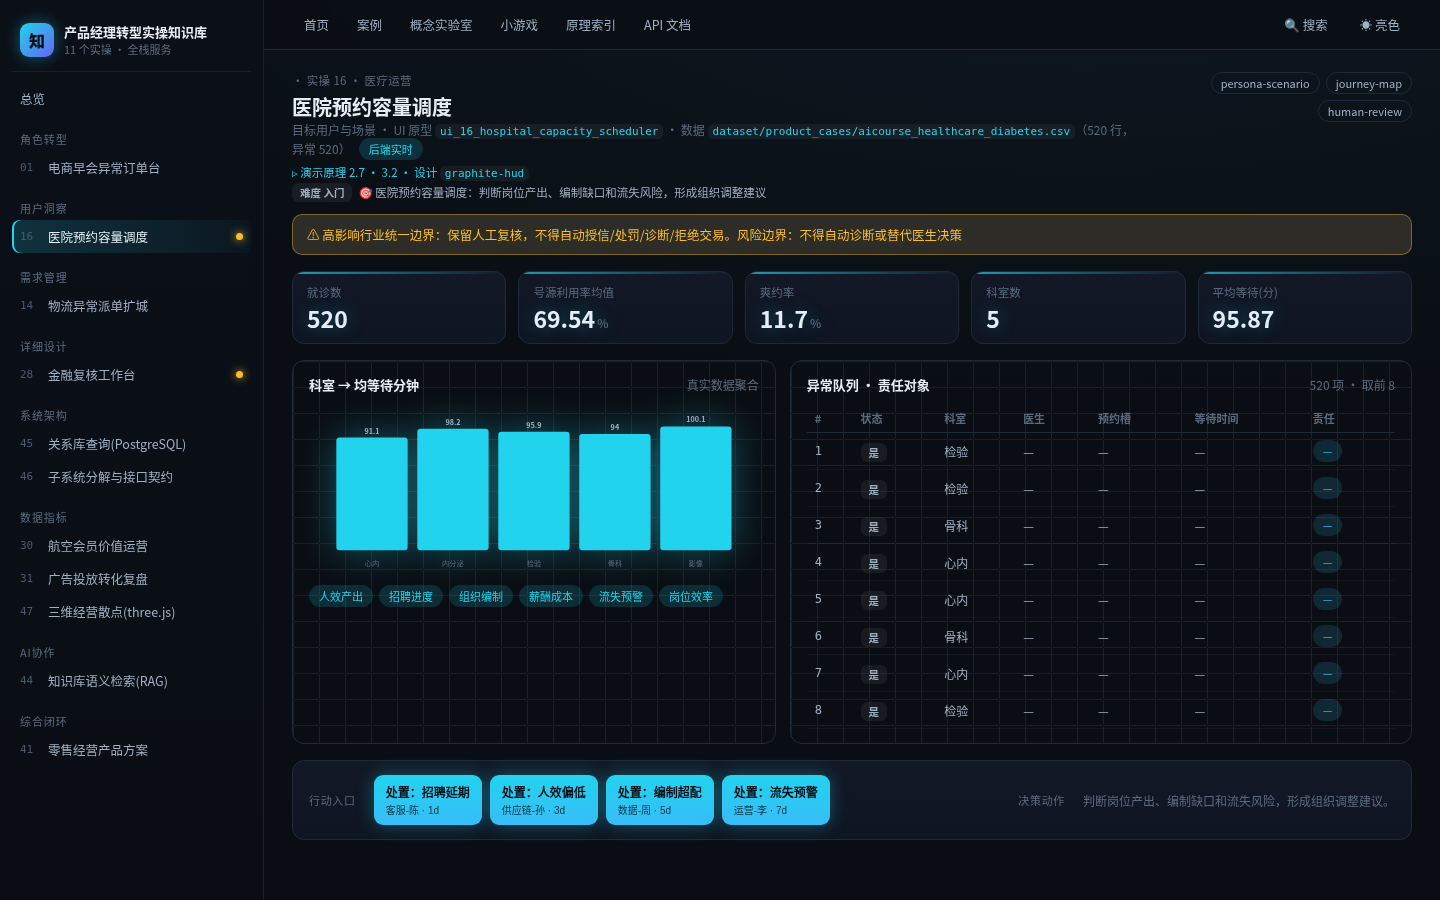
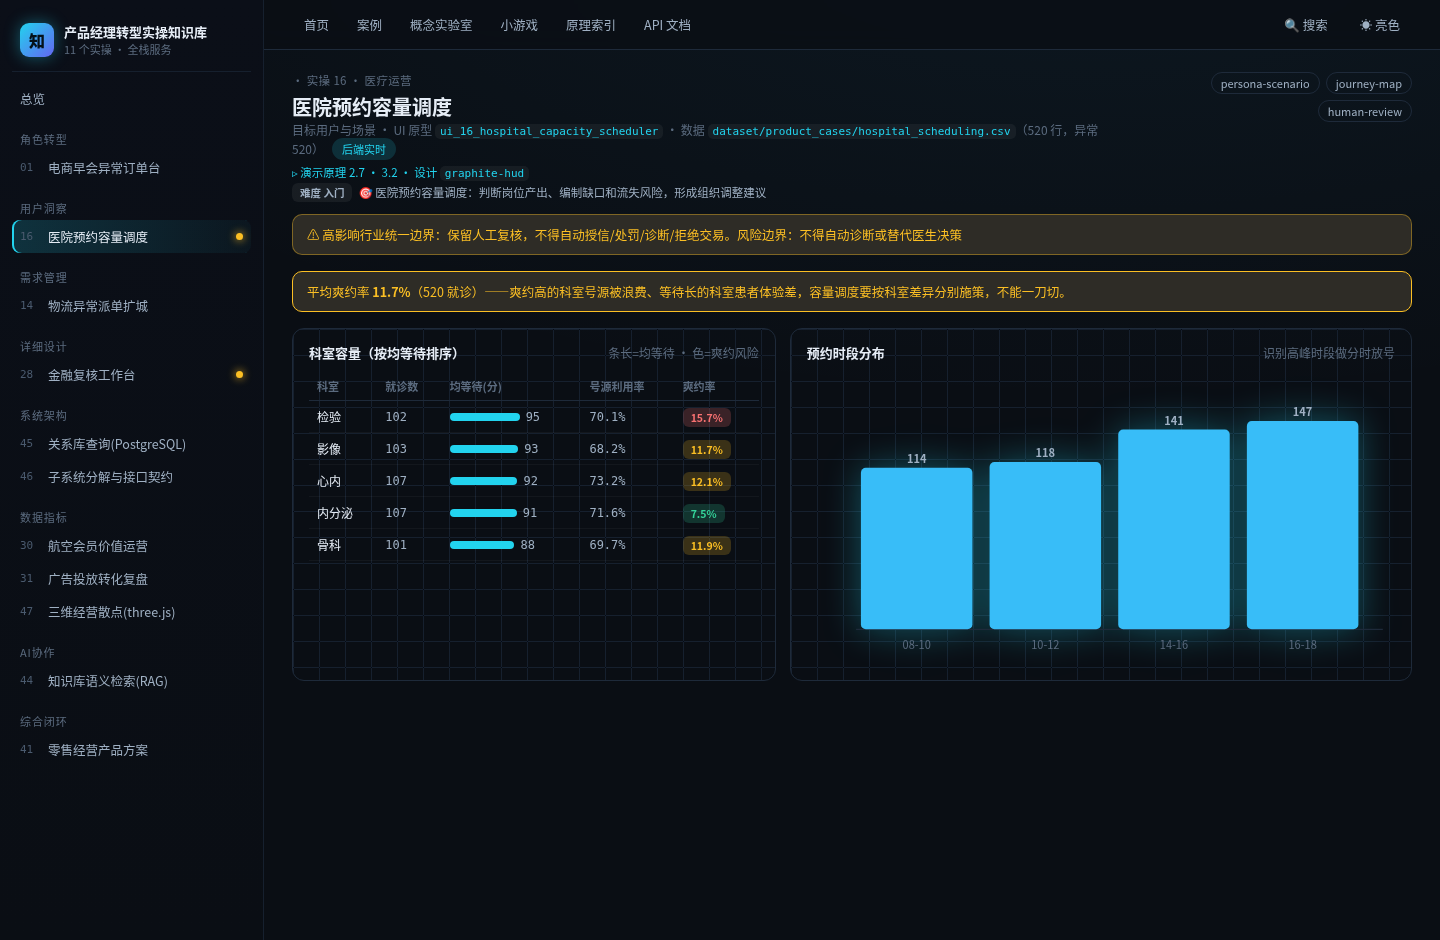
v7 P4：案例16 医院容量专属 demo（第二个深度标杆）
- 后端 /api/hospital 按科室真算 就诊数/均等待/号源利用率/爽约率 + 时段分布。
- 前端 HospitalScreen：科室容量表（按均等待排序、爽约风险色标）+ 预约时段分布柱，取代通用模板；banner 点明平均爽约 11.7%、按科室差异施策。
- case16 screen=capacity；后端 node:test 加医院断言；verify 加专属 demo 守卫。三重检查全绿。
- 深做流水线复用成功：RFM(30)→医院容量(16) 两个专属 demo，模式可复制到 14/28/31。

diff --git a/code/web/src/screens.tsx b/code/web/src/screens.tsx
@@ -1,5 +1,5 @@
 import { lazy, Suspense, useEffect, useMemo, useState } from 'react';
-import { fetchSearch, fetchDbQuery, fetchPoints3d, fetchHealth, fetchRfm } from './lib/api';
+import { fetchSearch, fetchDbQuery, fetchPoints3d, fetchHealth, fetchRfm, fetchHospital } from './lib/api';
 // three.js 独立 chunk，仅在渲染 3D 案例时动态加载（首屏不含 three）
 const Chart3D = lazy(() => import('./chart3d'));
 
@@ -159,8 +159,51 @@ function RfmScreen() {
   );
 }
 
+// —— 医院容量调度专属 demo（案例16）：按科室号源利用率/爽约率/均等待 + 时段分布 ——
+function HospitalScreen() {
+  const [d, setD] = useState<any>(null);
+  useEffect(() => { fetchHospital().then(setD); }, []);
+  if (!d) return <section className="card"><div className="muted">加载科室容量…</div></section>;
+  const maxWait = Math.max(...d.depts.map((x: any) => x.avgWait), 1);
+  const maxSlot = Math.max(...d.slots.map((x: any) => x.count), 1);
+  const wc = (r: number) => r >= 14 ? 'var(--bad)' : r >= 10 ? 'var(--warn)' : 'var(--ok)';
+  return (
+    <>
+      <div className="banner" style={{ color: 'var(--warn)', borderColor: 'var(--warn)' }}>平均爽约率 <b>{d.avgNoshow}%</b>（{d.total} 就诊）——爽约高的科室号源被浪费、等待长的科室患者体验差，容量调度要按科室差异分别施策，不能一刀切。</div>
+      <div className="cols">
+        <section className="card">
+          <div className="card-h"><h2>科室容量（按均等待排序）</h2><span className="muted">条长=均等待 · 色=爽约风险</span></div>
+          <div className="tbl-wrap">
+            <table className="tbl">
+              <thead><tr><th>科室</th><th>就诊数</th><th>均等待(分)</th><th>号源利用率</th><th>爽约率</th></tr></thead>
+              <tbody>
+                {d.depts.map((x: any) => (
+                  <tr key={x.name}>
+                    <td style={{ color: 'var(--ink)' }}>{x.name}</td><td className="mono">{x.count}</td>
+                    <td><div style={{ display: 'flex', alignItems: 'center', gap: 6 }}><div style={{ width: `${(x.avgWait / maxWait) * 70}px`, height: 8, background: 'var(--accent)', borderRadius: 4 }} /><span className="mono">{x.avgWait}</span></div></td>
+                    <td className="mono">{x.utilRate}%</td>
+                    <td><span className="badge" style={{ background: 'color-mix(in srgb,' + wc(x.noshowRate) + ' 20%,transparent)', color: wc(x.noshowRate) }}>{x.noshowRate}%</span></td>
+                  </tr>
+                ))}
+              </tbody>
+            </table>
+          </div>
+        </section>
+        <section className="card">
+          <div className="card-h"><h2>预约时段分布</h2><span className="muted">识别高峰时段做分时放号</span></div>
+          <svg className="chart" viewBox="0 0 480 240">
+            <line x1="40" y1="210" x2="470" y2="210" stroke="var(--border)" />
+            {d.slots.map((s: any, i: number) => { const bw = 420 / d.slots.length, h = (s.count / maxSlot) * 170; return (<g key={i}><rect x={44 + i * bw} y={210 - h} width={bw - 14} height={h} rx="4" fill="var(--accent2)" /><text x={44 + i * bw + (bw - 14) / 2} y={226} className="axis">{s.name}</text><text x={44 + i * bw + (bw - 14) / 2} y={210 - h - 4} className="val">{s.count}</text></g>); })}
+          </svg>
+        </section>
+      </div>
+    </>
+  );
+}
+
 export function SpecialScreen({ screen }: { screen: string }) {
   if (screen === 'rfm') return <RfmScreen />;
+  if (screen === 'capacity') return <HospitalScreen />;
   if (screen === 'rag') return <RagScreen />;
   if (screen === 'db') return <DbScreen />;
   if (screen === 'arch') return <ArchScreen />;

diff --git a/code/server/services/cases.ts b/code/server/services/cases.ts
@@ -62,3 +62,18 @@ export function rfm() {
   const scatter = members.filter((_, i) => i % 4 === 0).slice(0, 140).map((x) => ({ x: x.r, y: x.f, m: x.m, seg: x.seg }));
   return { total: members.length, segments, churnRisk: churn.length, churnRate: Math.round(churn.length / members.length * 1000) / 10, mHi, rHi, scatter };
 }
+
+/** 医院容量调度真实分析（案例16 专属 demo）：按科室真算就诊数/均等待/号源利用率/爽约率 + 时段分布。 */
+export function hospital() {
+  const t = parseCsv(join(ROOT, 'dataset', 'product_cases', 'hospital_scheduling.csv'));
+  const ci = (n: string) => t.head.indexOf(n);
+  const [dept, slot, wait, util, noshow] = ['科室', '预约时段', '等待分钟', '号源利用率', '是否爽约'].map(ci);
+  const rows = t.rows;
+  const dm: Record<string, { n: number; wait: number; util: number; noshow: number }> = {};
+  for (const r of rows) { const k = r[dept] || '—'; (dm[k] ||= { n: 0, wait: 0, util: 0, noshow: 0 }); const m = dm[k]; m.n++; m.wait += Number(r[wait]) || 0; m.util += Number(r[util]) || 0; if ((r[noshow] || '') === '是') m.noshow++; }
+  const depts = Object.entries(dm).map(([name, m]) => ({ name, count: m.n, avgWait: Math.round(m.wait / m.n), utilRate: Math.round(m.util / m.n * 1000) / 10, noshowRate: Math.round(m.noshow / m.n * 1000) / 10 })).sort((a, b) => b.avgWait - a.avgWait);
+  const sm: Record<string, number> = {}; for (const r of rows) sm[r[slot]] = (sm[r[slot]] || 0) + 1;
+  const slots = Object.entries(sm).sort().map(([name, count]) => ({ name, count }));
+  const avgNoshow = Math.round(rows.filter((r) => (r[noshow] || '') === '是').length / rows.length * 1000) / 10;
+  return { total: rows.length, avgNoshow, depts, slots };
+}

diff --git a/code/server/routes/api.ts b/code/server/routes/api.ts
@@ -1,5 +1,5 @@
 import { join } from 'node:path';
-import { listCases, caseData, getIndex, points3d, rfm } from '../services/cases.ts';
+import { listCases, caseData, getIndex, points3d, rfm, hospital } from '../services/cases.ts';
 import { tokenize } from '../services/tokenize.ts';
 import { openapiSpec } from '../services/openapi.ts';
 import { VectorStore } from '../vector/store.ts';
@@ -22,6 +22,7 @@ export async function apiRoutes(app: any) {
   });
   app.get('/api/points3d', async () => points3d());
   app.get('/api/rfm', async () => rfm());
+  app.get('/api/hospital', async () => hospital());
   app.get('/api/tokenize', async (req: any) => tokenize(String(req.query.text ?? '你好，今天天气怎么样？Hello AI Agent 2026')));
   app.get('/api/openapi.json', async () => openapiSpec());
   app.get('/api/search', async (req: any) => {

diff --git a/code/server/tests/api.test.ts b/code/server/tests/api.test.ts
@@ -8,6 +8,8 @@ test('后端 API 全绿', async () => {
   assert.equal(h.statusCode, 200); assert.equal(h.json().ok, true);
   const cs = await app.inject({ url: '/api/cases' });
   assert.ok(Array.isArray(cs.json()) && cs.json().length >= 10, '案例列表 >= 10（精品集）');
+  const hp = await app.inject({ url: '/api/hospital' });
+  assert.ok(hp.json().depts.length >= 2 && hp.json().avgNoshow >= 0, '医院科室容量');
   const rf = await app.inject({ url: '/api/rfm' });
   assert.ok(rf.json().total > 0 && rf.json().segments.length >= 2, 'RFM 分层');
   assert.ok(rf.json().churnRate >= 0 && rf.json().churnRate <= 100, '高价值流失率∈[0,100]');

diff --git a/code/web/src/lib/api.ts b/code/web/src/lib/api.ts
@@ -19,3 +19,5 @@ export const fetchOpenapi = () => getJson<any>('/api/openapi.json');
 export const fetchCasesList = () => getJson<any[]>('/api/cases');
 
 export const fetchRfm = () => getJson<any>('/api/rfm');
+
+export const fetchHospital = () => getJson<any>('/api/hospital');